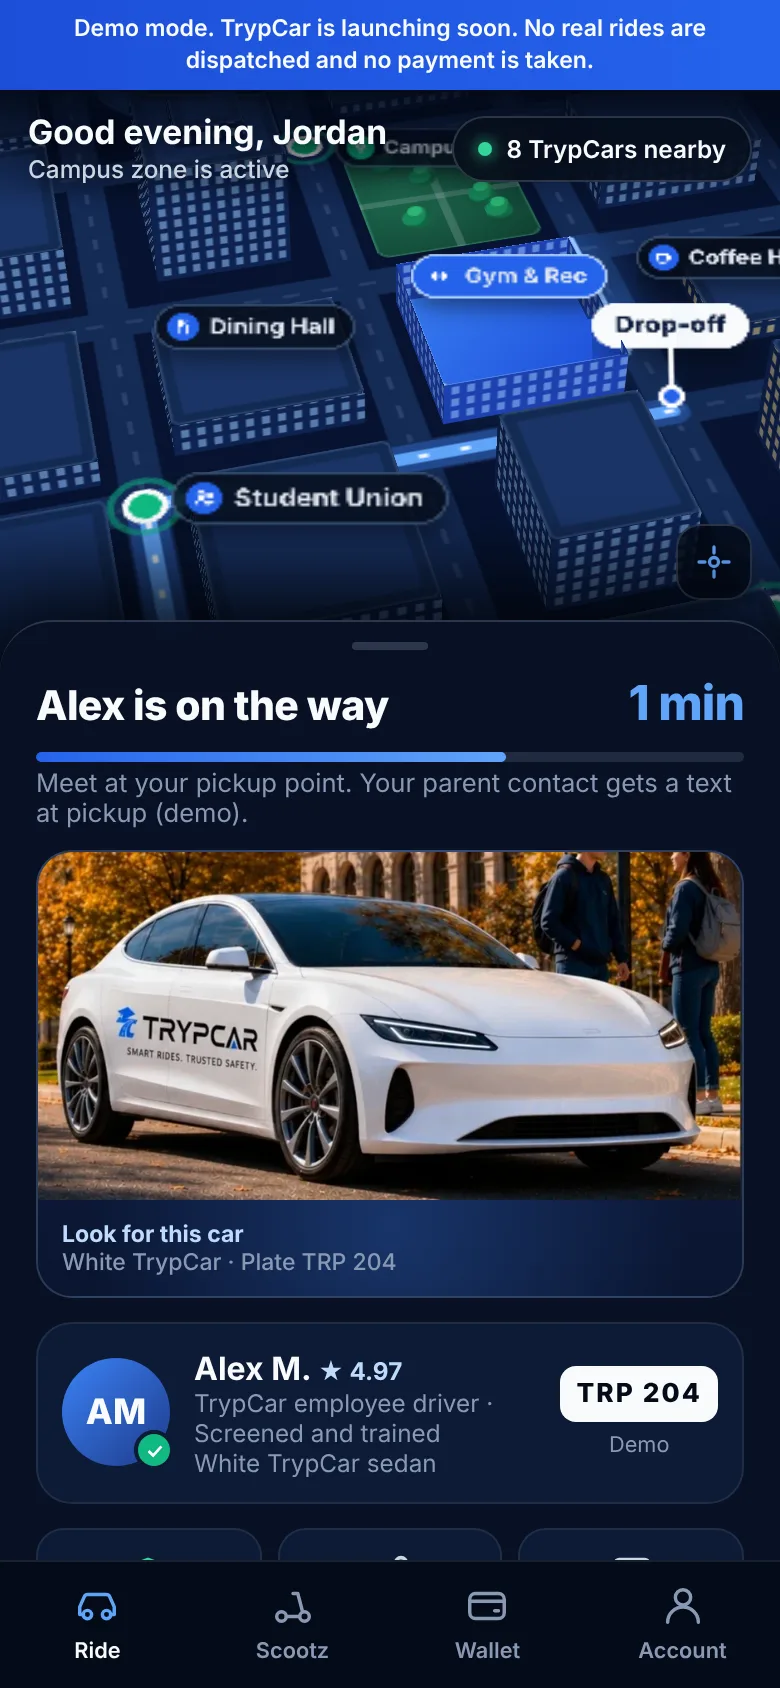
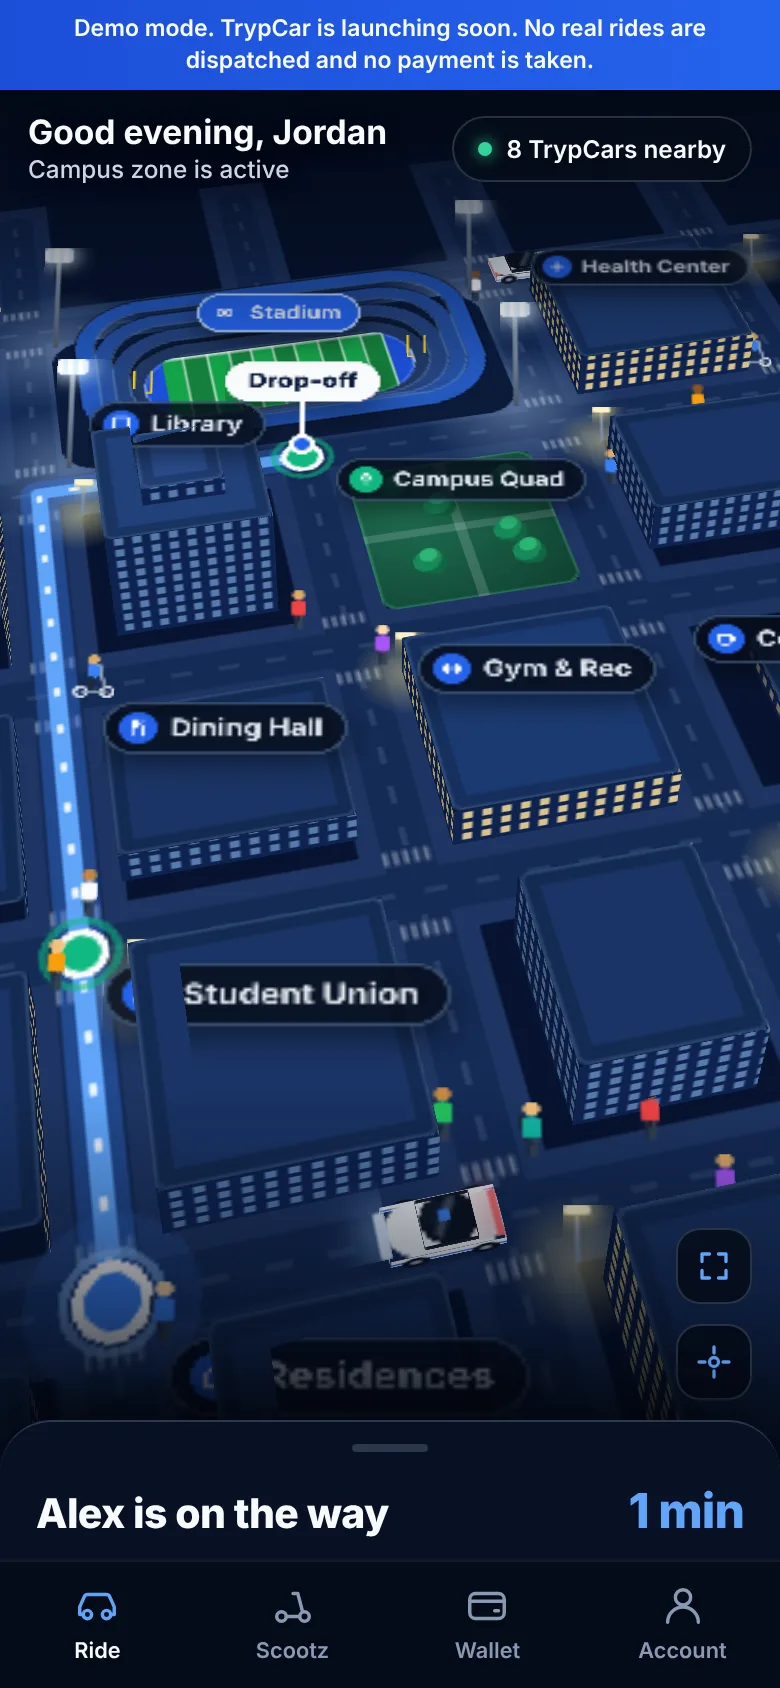
Add files via upload

diff --git a/app.html b/app.html
@@ -120,6 +120,33 @@
     .dpin i { width: 2px; height: 18px; background: #f8fafc; }
     .dpin u { width: 10px; height: 10px; border-radius: 50%; background: #2563eb; border: 2px solid #fff; margin-top: -2px; }
     .map-ui { position: absolute; inset: 0; pointer-events: none; }
+    .stage::before { content: ""; position: absolute; inset: -40%; background-image: radial-gradient(1.2px 1.2px at 12% 18%, #dbeafe, transparent 60%), radial-gradient(1px 1px at 68% 8%, #fff, transparent 60%), radial-gradient(1.4px 1.4px at 38% 42%, #bfdbfe, transparent 60%), radial-gradient(1px 1px at 84% 34%, #fff, transparent 60%), radial-gradient(1px 1px at 52% 72%, #93c5fd, transparent 60%), radial-gradient(1.2px 1.2px at 22% 82%, #fff, transparent 60%); background-size: 180px 180px; opacity: 0.55; animation: stars 90s linear infinite; pointer-events: none; }
+    @keyframes stars { to { transform: translate(180px, 90px); } }
+    .sidewalk { stroke: #1e3563; stroke-width: 30; stroke-linecap: square; }
+    .xwalk { stroke: rgba(226,232,240,0.42); stroke-width: 5; stroke-dasharray: 1.6 1.6; }
+    .bb { position: absolute; transform-origin: 0 0; transform: translateZ(var(--z, 0px)) rotateZ(calc(-1 * var(--rz))) rotateX(calc(-1 * var(--tilt))) translate(-50%, -100%); pointer-events: none; }
+    .lamp { width: 7px; height: 17px; }
+    .lamp i { position: absolute; left: 3px; bottom: 0; width: 1.3px; height: 14px; background: #7c8db0; }
+    .lamp b { position: absolute; left: 0; top: 0; width: 7px; height: 3px; border-radius: 2px; background: #fef3c7; box-shadow: 0 0 6px 2px rgba(253,224,138,0.8); }
+    .tower { width: 12px; height: 54px; }
+    .tower i { position: absolute; left: 5px; bottom: 0; width: 2px; height: 46px; background: linear-gradient(#94a3b8, #475569); }
+    .tower b { position: absolute; left: 0; top: 0; width: 12px; height: 8px; border-radius: 2px; background: repeating-linear-gradient(90deg, #fff 0 2px, #e0f2fe 2px 4px); box-shadow: 0 0 8px 2px rgba(224,242,254,0.85); }
+    .post { width: 8px; height: 12px; border: 1.4px solid #facc15; border-top: none; }
+    .walker { width: 9px; height: 18px; }
+    .walker svg { width: 100%; height: 100%; display: block; overflow: visible; animation: bob 0.5s ease-in-out infinite alternate; }
+    .walker .l1, .walker .l2 { transform-box: fill-box; transform-origin: top center; animation: leg 0.5s ease-in-out infinite alternate; }
+    .walker .l2 { animation-direction: alternate-reverse; }
+    @keyframes leg { from { transform: rotate(18deg); } to { transform: rotate(-18deg); } }
+    @keyframes bob { to { transform: translateY(-0.6px); } }
+    .rider { width: 15px; height: 19px; }
+    .rider svg { width: 100%; height: 100%; }
+    .box.flk { --win: rgba(253,224,150,0.85) !important; }
+    .box.dim { --win: rgba(147,197,253,0.2) !important; }
+    .stad-ring { position: absolute; border-radius: 30px; border-style: solid; border-color: #22427f; box-shadow: inset 0 0 0 1px rgba(147,197,253,0.3), 0 0 0 1px rgba(5,11,24,0.5); background-clip: padding-box; }
+    .stad-field { position: absolute; border-radius: 4px; background: linear-gradient(90deg, #1d4ed8 0 9%, transparent 9% 91%, #1d4ed8 91%), repeating-linear-gradient(90deg, rgba(255,255,255,0.6) 0 1px, transparent 1px 9.2px), repeating-linear-gradient(90deg, #15803d 0 9.2px, #16a34a 9.2px 18.4px); box-shadow: inset 0 0 0 1.5px rgba(255,255,255,0.75); }
+    .stad-field::after { content: ""; position: absolute; left: 50%; top: 50%; width: 12px; height: 12px; margin: -6px 0 0 -6px; border-radius: 50%; border: 1.5px solid rgba(255,255,255,0.8); }
+    .explore { position: absolute; right: 14px; bottom: 88px; pointer-events: auto; width: 38px; height: 38px; border-radius: 12px; background: rgba(5,11,24,0.85); border: 1px solid var(--line2); display: flex; align-items: center; justify-content: center; }
+    .explore svg { width: 18px; height: 18px; stroke: var(--sky); fill: none; stroke-width: 2.2; stroke-linecap: round; stroke-linejoin: round; }
     .topbar { position: absolute; top: 12px; left: 14px; right: 14px; display: flex; justify-content: space-between; align-items: center; }
     .hello { font-size: 1.05rem; font-weight: 700; text-shadow: 0 2px 10px rgba(0,0,0,0.7); }
     .hello small { display: block; font-size: 0.76rem; font-weight: 500; color: var(--soft); }
@@ -132,8 +159,10 @@
     .vignette { position: absolute; inset: 0; background: linear-gradient(180deg, rgba(3,8,20,0.9) 0%, transparent 20%, transparent 72%, rgba(3,8,20,0.95) 100%); pointer-events: none; }
 
     /* SHEET */
-    .sheet { flex: none; position: relative; z-index: 5; margin-top: -30px; background: rgba(8,18,39,0.96); backdrop-filter: blur(16px); -webkit-backdrop-filter: blur(16px); border-top: 1px solid var(--line2); border-radius: 26px 26px 0 0; padding: 10px 18px 16px; box-shadow: 0 -16px 40px rgba(0,0,0,0.5); max-height: 64%; overflow-y: auto; }
-    .grab { width: 38px; height: 4px; border-radius: 4px; background: var(--line2); margin: 0 auto 12px; }
+    .sheet { flex: none; position: relative; z-index: 5; margin-top: -30px; background: rgba(8,18,39,0.96); backdrop-filter: blur(16px); -webkit-backdrop-filter: blur(16px); border-top: 1px solid var(--line2); border-radius: 26px 26px 0 0; padding: 10px 18px 16px; box-shadow: 0 -16px 40px rgba(0,0,0,0.5); max-height: 64%; overflow-y: auto; transition: max-height 0.35s ease; }
+    .sheet.min { max-height: 70px; overflow: hidden; }
+    .grab { width: 90px; height: 22px; margin: -8px auto 6px; position: relative; cursor: pointer; touch-action: none; }
+    .grab::before { content: ""; position: absolute; left: 26px; right: 26px; top: 9px; height: 4px; border-radius: 4px; background: var(--line2); }
     .sheet h2 { font-size: 1.28rem; font-weight: 800; letter-spacing: -0.015em; }
     .search { display: flex; align-items: center; gap: 10px; width: 100%; padding: 14px 16px; border-radius: 16px; background: var(--panel); border: 1px solid var(--line2); font-size: 1rem; font-weight: 600; color: var(--soft); text-align: left; margin: 10px 0 12px; }
     .search svg { width: 20px; height: 20px; stroke: var(--sky); fill: none; stroke-width: 2.2; stroke-linecap: round; }
@@ -292,8 +321,10 @@
     <div class="stage" id="stage">
       <div class="world" id="world">
         <div class="ground"><svg viewBox="0 0 460 600" aria-hidden="true">
+          <defs><radialGradient id="lampglow"><stop offset="0" stop-color="#fde68a" stop-opacity="0.45"/><stop offset="1" stop-color="#fde68a" stop-opacity="0"/></radialGradient>
+          <radialGradient id="stadglow"><stop offset="0" stop-color="#bfdbfe" stop-opacity="0.35"/><stop offset="1" stop-color="#bfdbfe" stop-opacity="0"/></radialGradient></defs>
           <rect x="-200" y="-200" width="860" height="1000" fill="#071330"/>
-          <g id="roads"></g>
+          <g id="walks"></g><g id="roads"></g><g id="glows"></g>
           <path class="route-glow" id="rglow" d=""/><path class="route-line" id="rline" d=""/><path class="route-flow" id="rflow" d=""/>
           <g id="hubs"></g>
           <g id="mepin"><circle r="22" fill="#3b82f6" opacity="0.18"/><circle class="pulse" r="10" fill="none" stroke="#93c5fd" stroke-width="2"/><circle r="8.5" fill="#3b82f6" stroke="#fff" stroke-width="3"/></g>
@@ -304,7 +335,8 @@
       <div class="vignette"></div>
       <div class="map-ui">
         <div class="topbar"><div class="hello" id="hello">Good evening<small>Campus zone is active</small></div><span class="pill"><span class="dot"></span><span>8 TrypCars nearby</span></span></div>
-        <div class="hint" id="hint">Drag to look around. Tap a building to go there.</div>
+        <div class="hint" id="hint">Drag to look around · Swipe panel down</div>
+        <button class="explore" type="button" id="explore" aria-label="Bigger map"><svg viewBox="0 0 24 24"><path d="M4 9V4h5M20 9V4h-5M4 15v5h5M20 15v5h-5"/></svg></button>
         <button class="recenter" type="button" id="recenter" aria-label="Reset map view"><svg viewBox="0 0 24 24"><circle cx="12" cy="12" r="3"/><path d="M12 2v4M12 18v4M2 12h4M18 12h4"/></svg></button>
       </div>
     </div>
@@ -453,7 +485,16 @@
   var world = $("world"), city = $("city"), roadsG = $("roads");
   function sv(tag, attrs, parent) { var e = document.createElementNS(NS, tag); for (var k in attrs) e.setAttribute(k, attrs[k]); parent.appendChild(e); return e; }
   function div(cls, css, parent) { var e = document.createElement("div"); if (cls) e.className = cls; if (css) e.style.cssText = css; (parent || city).appendChild(e); return e; }
-  cols.forEach(function (x) { sv("line", { x1: x, y1: -40, x2: x, y2: 640, "class": "road" }, roadsG); sv("line", { x1: x, y1: -40, x2: x, y2: 640, "class": "road-line" }, roadsG); });
+  var walksG = $("walks"), glowsG = $("glows");
+  function colSegs(x) { return x === 230 ? [[-40, 40], [140, 640]] : [[-40, 640]]; }
+  cols.forEach(function (x) { colSegs(x).forEach(function (g) {
+    sv("line", { x1: x, y1: g[0], x2: x, y2: g[1], "class": "sidewalk" }, walksG);
+    sv("line", { x1: x, y1: g[0], x2: x, y2: g[1], "class": "road" }, roadsG); sv("line", { x1: x, y1: g[0], x2: x, y2: g[1], "class": "road-line" }, roadsG); }); });
+  rowsY.forEach(function (y) { sv("line", { x1: -40, y1: y, x2: 500, y2: y, "class": "sidewalk" }, walksG); });
+  cols.forEach(function (x) { rowsY.forEach(function (y) {
+    if (x === 230 && (y === 40 || y === 140)) return;
+    [[x - 8, y - 13, x + 8, y - 13], [x - 8, y + 13, x + 8, y + 13], [x - 13, y - 8, x - 13, y + 8], [x + 13, y - 8, x + 13, y + 8]].forEach(function (c) { sv("line", { x1: c[0], y1: c[1], x2: c[2], y2: c[3], "class": "xwalk" }, roadsG); });
+  }); });
   rowsY.forEach(function (y) { sv("line", { x1: -40, y1: y, x2: 500, y2: y, "class": "road" }, roadsG); sv("line", { x1: -40, y1: y, x2: 500, y2: y, "class": "road-line" }, roadsG); });
 
   var ICON = {
@@ -464,9 +505,8 @@
   };
   // Campus layout: one entry per city block (column, row). Heights in pixels.
   var blocks = [
-    { c: 0, r: 0, n: "Parking Garage", h: 22, i: "park", roof: "#18305e", lbl: 0 },
+    { c: 0, r: 0, n: "Arena", kind: "dome", i: "star", lbl: 1 },
     { c: 1, r: 0, n: "Stadium", kind: "stadium", i: "ball", lbl: 1 },
-    { c: 2, r: 0, n: "Arena", kind: "dome", i: "star", lbl: 1 },
     { c: 3, r: 0, n: "Health Center", h: 30, i: "cross", roof: "#1d3a6e", lbl: 1 },
     { c: 0, r: 1, n: "Science Hall", h: 40, i: "flask", lbl: 1 },
     { c: 1, r: 1, n: "Library", h: 72, i: "book", fp: [8, 8, 56, 56], roof: "#21407a", lbl: 1 },
@@ -500,10 +540,18 @@
   blocks.forEach(function (k) {
     var bx = cols[k.c] + 14, by = rowsY[k.r] + 14, W = 72, top = 0, el;
     if (k.kind === "stadium") {
-      el = div("box bld", "left:" + bx + "px;top:" + by + "px;width:" + W + "px;height:" + W + "px");
-      div("field", "left:14px;top:20px;width:44px;height:32px", el);
-      [0, 1, 2].forEach(function (i) { var g = 10 - i * 6; div("tier", "left:" + g + "px;top:" + (g + 4) + "px;right:" + g + "px;bottom:" + (g + 4) + "px;transform:translateZ(" + (5 + i * 6) + "px)", el); });
-      top = 22;
+      // Spans two blocks: a bowl of rising seating tiers around a striped football field
+      var SW = 172, SH = 72;
+      el = div("box bld", "left:" + bx + "px;top:" + by + "px;width:" + SW + "px;height:" + SH + "px");
+      div("", "position:absolute;inset:-4px;border-radius:14px;background:#0b1a3a", el);
+      div("stad-field", "left:30px;top:15px;width:112px;height:42px", el);
+      for (var t = 0; t < 4; t++) { var g = 24 - t * 6; div("stad-ring", "left:" + g + "px;top:" + (g - 15) + "px;right:" + g + "px;bottom:" + (g - 15) + "px;border-width:" + 7 + "px;border-color:hsl(220," + (50 + t * 6) + "%," + (26 + t * 6) + "%);transform:translateZ(" + (3 + t * 6) + "px)", el); }
+      [[30, 36], [142, 36]].forEach(function (p) { var gp = div("bb post", "left:" + (bx + p[0]) + "px;top:" + (by + p[1]) + "px;--z:1px", world); });
+      [[bx - 2, by - 2], [bx + SW + 2, by - 2], [bx - 2, by + SH + 2], [bx + SW + 2, by + SH + 2]].forEach(function (p) {
+        div("bb tower", "left:" + p[0] + "px;top:" + p[1] + "px", world).innerHTML = "<i></i><b></b>";
+        sv("circle", { cx: p[0], cy: p[1], r: 40, fill: "url(#stadglow)" }, glowsG);
+      });
+      k.cxOverride = bx + SW / 2; top = 30;
     } else if (k.kind === "dome") {
       el = div("box bld", "left:" + bx + "px;top:" + by + "px;width:" + W + "px;height:" + W + "px");
       box(4, 4, 64, 64, 10, { parent: el, roof: "#1a3466" });
@@ -520,7 +568,7 @@
       top = k.h;
       if (k.n === "Library") { box(14, 14, 28, 28, 12, { parent: el, roof: "#2a4d8f" }).style.transform = "translateZ(" + k.h + "px)"; top = k.h + 12; }
     }
-    k.el = el; k.top = top + 6; k.cx = bx + 36; k.cy = by + 36;
+    k.el = el; k.top = top + 6; k.cx = k.cxOverride || bx + 36; k.cy = by + 36;
     if (k.lbl) k.lab = label(k.cx, k.cy, k.top, k.n, k.i, k.hub ? "hub" : "");
   });
   var hubs = [[230, 140], [130, 340], [330, 440]];
@@ -534,7 +582,7 @@
     { n: "Gym & Rec", s: "Weights, pool, and courts", b: [2, 2], t: 5 },
     { n: "Stadium", s: "Game day drop-off zone", b: [1, 0], t: 8 },
     { n: "Coffee House", s: "Coffee and study tables", b: [3, 2], t: 6 },
-    { n: "Arena", s: "Basketball and concerts", b: [2, 0], t: 8 },
+    { n: "Arena", s: "Basketball and concerts", b: [0, 0], t: 8 },
     { n: "Student Union", s: "Food court and events", b: [1, 3], t: 3 },
     { n: "Dining Hall", s: "All-you-care-to-eat dining", b: [1, 2], t: 3 },
     { n: "Health Center", s: "Campus clinic", b: [3, 0], t: 7 },
@@ -632,13 +680,64 @@
     raf = requestAnimationFrame(frame);
   }
 
+  // Streetlights at intersection corners (skipped inside the stadium)
+  cols.forEach(function (x) { rowsY.forEach(function (y, j) {
+    var lx = x + 15, ly = y + 15;
+    if (lx > 140 && lx < 320 && ly > 50 && ly < 130) return;
+    if ((cols.indexOf(x) + j) % 2) return;
+    div("bb lamp", "left:" + lx + "px;top:" + ly + "px", world).innerHTML = "<i></i><b></b>";
+    sv("circle", { cx: lx, cy: ly, r: 18, fill: "url(#lampglow)" }, glowsG);
+  }); });
+
+  // People walking on the sidewalks, and Scootz riders
+  var SKIN = ["#f1c27d", "#e0ac69", "#c68642", "#8d5524", "#ffdbac"], SHIRT = ["#ef4444", "#3b82f6", "#f8fafc", "#a855f7", "#22c55e", "#f59e0b", "#ec4899", "#14b8a6"];
+  function person(i) {
+    var bag = i % 3 === 0 ? '<rect x="0.6" y="3.6" width="1.4" height="3.4" rx="0.6" fill="#1e293b"/>' : "";
+    return '<svg viewBox="0 0 7 14">' + bag + '<rect class="l1" x="2" y="8.6" width="1.3" height="5" rx="0.6" fill="#1e293b"/><rect class="l2" x="3.8" y="8.6" width="1.3" height="5" rx="0.6" fill="#334155"/><rect x="1.6" y="3.8" width="3.8" height="5.4" rx="1.4" fill="' + SHIRT[i % SHIRT.length] + '"/><circle cx="3.5" cy="2" r="1.7" fill="' + SKIN[i % SKIN.length] + '"/></svg>';
+  }
+  var lanes = [];
+  cols.forEach(function (x) { [-11, 11].forEach(function (o) { lanes.push(x === 230 ? { ax: "y", f: x + o, a: 150, b: 560 } : { ax: "y", f: x + o, a: 20, b: 560 }); }); });
+  rowsY.forEach(function (y) { [-11, 11].forEach(function (o) { if (y + o > 30 && y + o < 140) return; lanes.push({ ax: "x", f: y + o, a: 15, b: 445 }); }); });
+  var walkers = [];
+  for (var wi = 0; wi < 20; wi++) {
+    var ln = lanes[(wi * 7) % lanes.length], el2 = div("bb walker", "", world);
+    el2.innerHTML = person(wi);
+    walkers.push({ el: el2, ln: ln, p: ln.a + ((wi * 97) % (ln.b - ln.a)), v: (wi % 2 ? 1 : -1) * (7 + (wi % 5) * 1.6) });
+  }
+  var riders = [0, 1, 2].map(function (i) {
+    var ln = lanes[(i * 5 + 3) % lanes.length], el3 = div("bb rider", "", world);
+    el3.innerHTML = '<svg viewBox="0 0 12 15"><circle cx="3" cy="13" r="1.6" fill="none" stroke="#e2e8f0" stroke-width="0.9"/><circle cx="10" cy="13" r="1.6" fill="none" stroke="#e2e8f0" stroke-width="0.9"/><path d="M3 13h7M9.5 13L8 4.5h-1.5" stroke="#94a3b8" stroke-width="0.9" fill="none"/><rect x="4.6" y="4" width="3.2" height="4.6" rx="1.2" fill="#3b82f6"/><rect x="5" y="8.2" width="1.2" height="4.2" fill="#1e293b"/><circle cx="6.2" cy="2.4" r="1.6" fill="#e0ac69"/></svg>';
+    return { el: el3, ln: ln, p: ln.a + i * 120, v: (i % 2 ? -1 : 1) * 30 };
+  });
+  function stepMover(m, dt) {
+    m.p += m.v * dt;
+    if (m.p > m.ln.b) { m.p = m.ln.b; m.v = -Math.abs(m.v); }
+    if (m.p < m.ln.a) { m.p = m.ln.a; m.v = Math.abs(m.v); }
+    var x = m.ln.ax === "y" ? m.ln.f : m.p, y = m.ln.ax === "y" ? m.p : m.ln.f;
+    m.el.style.left = x + "px"; m.el.style.top = y + "px";
+  }
+
+  // Windows that switch on and off around campus
+  var winBoxes = [].slice.call(city.querySelectorAll(".box.bld"));
+  setInterval(function () {
+    if (document.hidden || !winBoxes.length) return;
+    var b2 = winBoxes[Math.floor(Math.random() * winBoxes.length)];
+    if (b2.classList.contains("flk")) { b2.classList.remove("flk"); b2.classList.add("dim"); }
+    else if (b2.classList.contains("dim")) b2.classList.remove("dim");
+    else b2.classList.add("flk");
+  }, 700);
+
   // Camera: drag to orbit, tap a building to choose it
-  var cam = { tilt: 52, rz: -14, zoom: 1 };
+  var cam = { tilt: 52, rz: -14, zoom: 1, base: 1 }, lastInput = performance.now(), cine = false;
   function applyCam() { world.style.setProperty("--tilt", cam.tilt + "deg"); world.style.setProperty("--rz", cam.rz + "deg"); world.style.setProperty("--zoom", cam.zoom); }
-  function setClose(on) { cam.zoom = on ? 1.3 : 1; applyCam(); }
-  function resetMap() { setRoute(null); myCar.style.display = "none"; $("dpin").classList.remove("on"); select(null); cam.tilt = 52; cam.rz = -14; cam.zoom = 1; applyCam(); }
+  var closeOn = false;
+  function baseZoom() { return (closeOn ? 1.3 : 1) * (sheet && sheet.classList.contains("min") ? 1.22 : 1); }
+  function setClose(on) { closeOn = on; cam.base = cam.zoom = baseZoom(); applyCam(); }
+  function refit() { wake(); cam.base = cam.zoom = baseZoom(); applyCam(); }
+  function resetMap() { setRoute(null); myCar.style.display = "none"; $("dpin").classList.remove("on"); select(null); cam.tilt = 52; cam.rz = -14; closeOn = false; cam.base = cam.zoom = baseZoom(); applyCam(); }
+  function wake() { lastInput = performance.now(); if (cine) { cine = false; world.classList.remove("drag"); } }
   var stage = $("stage"), drag = null, moved = false;
-  stage.addEventListener("pointerdown", function (e) { drag = { x: e.clientX, y: e.clientY, rz: cam.rz, tilt: cam.tilt }; moved = false; });
+  stage.addEventListener("pointerdown", function (e) { wake(); drag = { x: e.clientX, y: e.clientY, rz: cam.rz, tilt: cam.tilt }; moved = false; });
   window.addEventListener("pointermove", function (e) {
     if (!drag) return;
     var dx = e.clientX - drag.x, dy = e.clientY - drag.y;
@@ -651,11 +750,40 @@
     var b = e.target.closest("[data-place]");
     if (b && !trip.locked) { trip.place = places[+b.getAttribute("data-place")]; options(); $("hint").classList.add("gone"); }
   });
-  $("recenter").addEventListener("click", function (e) { e.stopPropagation(); cam.tilt = 52; cam.rz = -14; applyCam(); });
+  $("recenter").addEventListener("click", function (e) { e.stopPropagation(); wake(); cam.tilt = 52; cam.rz = -14; cam.zoom = cam.base; applyCam(); });
+  $("explore").addEventListener("click", function (e) { e.stopPropagation(); sheet.classList.toggle("min"); refit(); });
+
+  // One animation loop runs the whole living campus
+  var lastT = performance.now(), cineStart = 0, cineFrom = null;
+  function life(now) {
+    var dt = Math.min(0.05, (now - lastT) / 1000); lastT = now;
+    if (!document.hidden) {
+      walkers.forEach(function (m) { stepMover(m, dt); });
+      riders.forEach(function (m) { stepMover(m, dt); });
+      // Cinematic flyover after a few seconds without touching the screen
+      if (!drag && now - lastInput > 7000) {
+        if (!cine) { cine = true; cineStart = now; cineFrom = { rz: cam.rz, tilt: cam.tilt, zoom: cam.zoom }; world.classList.add("drag"); }
+        var tt = (now - cineStart) / 1000, ease = Math.min(1, tt / 3);
+        var trz = -14 + 26 * Math.sin(tt * 0.11), ttl = 50 + 6 * Math.sin(tt * 0.07), tz = cam.base * (1.04 + 0.1 * Math.sin(tt * 0.05));
+        cam.rz = cineFrom.rz + (trz - cineFrom.rz) * ease; cam.tilt = cineFrom.tilt + (ttl - cineFrom.tilt) * ease; cam.zoom = cineFrom.zoom + (tz - cineFrom.zoom) * ease;
+        applyCam();
+      }
+    }
+    if (!RM) requestAnimationFrame(life);
+  }
+  if (!RM) requestAnimationFrame(life); else { walkers.concat(riders).forEach(function (m) { stepMover(m, 0); }); }
   setTimeout(function () { $("hint").classList.add("gone"); }, 6000);
 
   // ---------------- Ride flow ----------------
   var sheet = $("sheet");
+  var gy = null;
+  sheet.addEventListener("pointerdown", function (e) { if (e.target.closest(".grab")) { gy = e.clientY; wake(); } });
+  sheet.addEventListener("pointerup", function (e) {
+    if (gy === null) return;
+    var dy = e.clientY - gy; gy = null;
+    if (dy > 25) sheet.classList.add("min"); else if (dy < -25) sheet.classList.remove("min"); else sheet.classList.toggle("min");
+    refit();
+  });
   var services = [
     { id: "ride", n: "Ride", tag: "4 seats", d: "TrypCar sedan", price: 6.5, eta: 2, color: "#f8fafc" },
     { id: "eco", n: "Eco", tag: "Shared", d: "Split with members going your way", price: 4.75, eta: 4, color: "#a7f3d0" },
@@ -679,6 +807,7 @@
     sheet.innerHTML = html + "</div>";
   }
   function options() {
+    if (sheet.classList.contains("min")) { sheet.classList.remove("min"); refit(); }
     var p = trip.place; setRoute(pathFrom(ME, p)); showDest(p);
     var html = '<div class="grab"></div><button class="back" type="button" data-a="pick">&#8592; ' + p.n + '</button><h2>Choose your ride</h2>' + carHero(svc().n + (trip.svc === "lux" ? " · Executive sedan" : " · TrypCar electric sedan"), "Every ride is a company-owned TrypCar", true) + '<div class="opts" role="radiogroup">';
     services.forEach(function (s) {
@@ -690,6 +819,7 @@
   }
   function svc() { return services.filter(function (s) { return s.id === trip.svc; })[0]; }
   function matching() {
+    if (sheet.classList.contains("min")) { sheet.classList.remove("min"); refit(); }
     trip.locked = true;
     sheet.innerHTML = '<div class="grab"></div><div class="match"><div class="radar"><i></i><i></i><i></i><b></b></div><h2>Finding your driver</h2><p class="muted" style="font-size:0.85rem;margin-top:4px">Matching you with the closest TrypCar ' + svc().n + ' (demo)</p></div><button class="btn btn-line" type="button" data-a="cancel" style="margin-top:14px">Cancel</button>';
     later(arriving, 2200);
@@ -717,6 +847,7 @@
     moveCar(pathFrom(ME, p), 6500, function (t) { var b = $("pbar2"); if (b) b.style.width = (t * 100) + "%"; var e = $("eta2"); if (e) e.textContent = t < 1 ? Math.max(1, Math.ceil(p.t * (1 - t))) + " min" : "Arrived"; }, function () { later(arrived, 600); });
   }
   function arrived() {
+    if (sheet.classList.contains("min")) { sheet.classList.remove("min"); refit(); }
     var s = svc(), p = trip.place, used = Math.min(credit, s.price);
     credit = Math.max(0, credit - s.price); $("credit").textContent = "$" + credit.toFixed(2);
     rides.unshift({ p: p.n, s: s.n, amt: s.price, when: new Date() });

diff --git a/app-sw.js b/app-sw.js
@@ -1,5 +1,5 @@
 // TrypCar app service worker: caches the app so it opens instantly and works offline.
-var CACHE = "trypcar-app-v6";
+var CACHE = "trypcar-app-v7";
 var FILES = ["app.html", "app.webmanifest", "app-icon-192.png", "app-icon-512.png", "trypcar-logo.png", "trypcar-car.webp"];
 self.addEventListener("install", function (e) {
   e.waitUntil(caches.open(CACHE).then(function (c) { return c.addAll(FILES); }));
